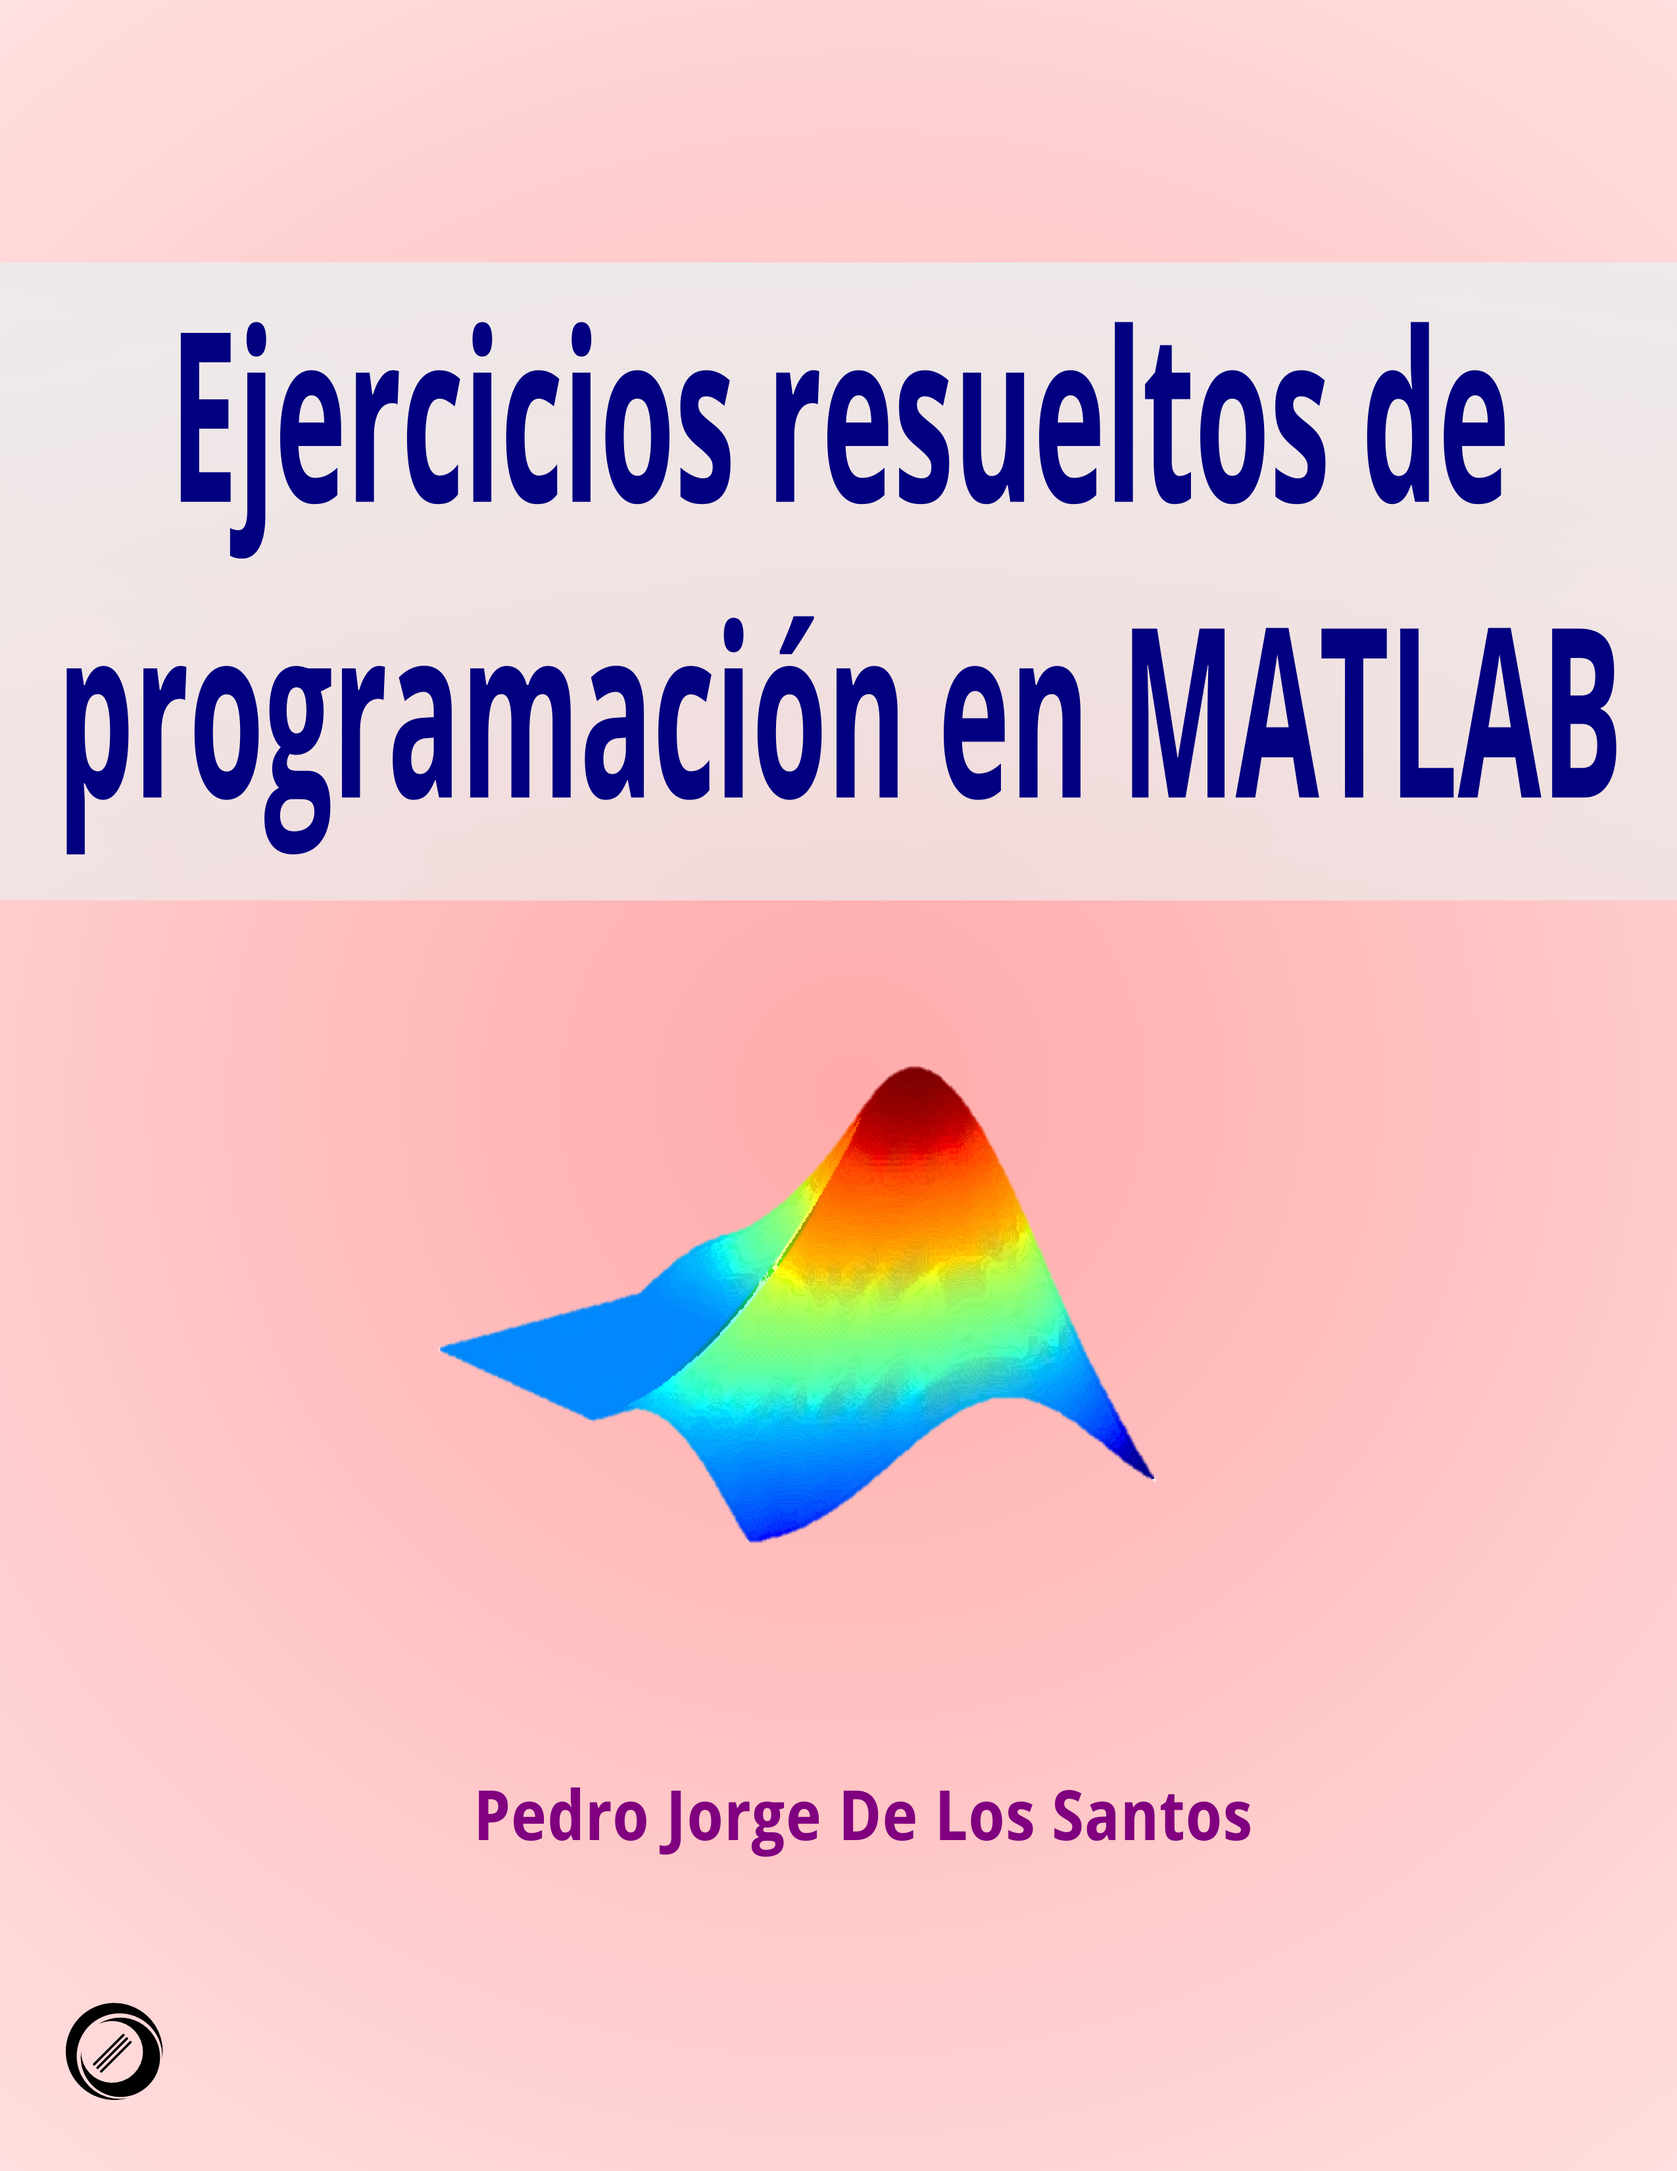
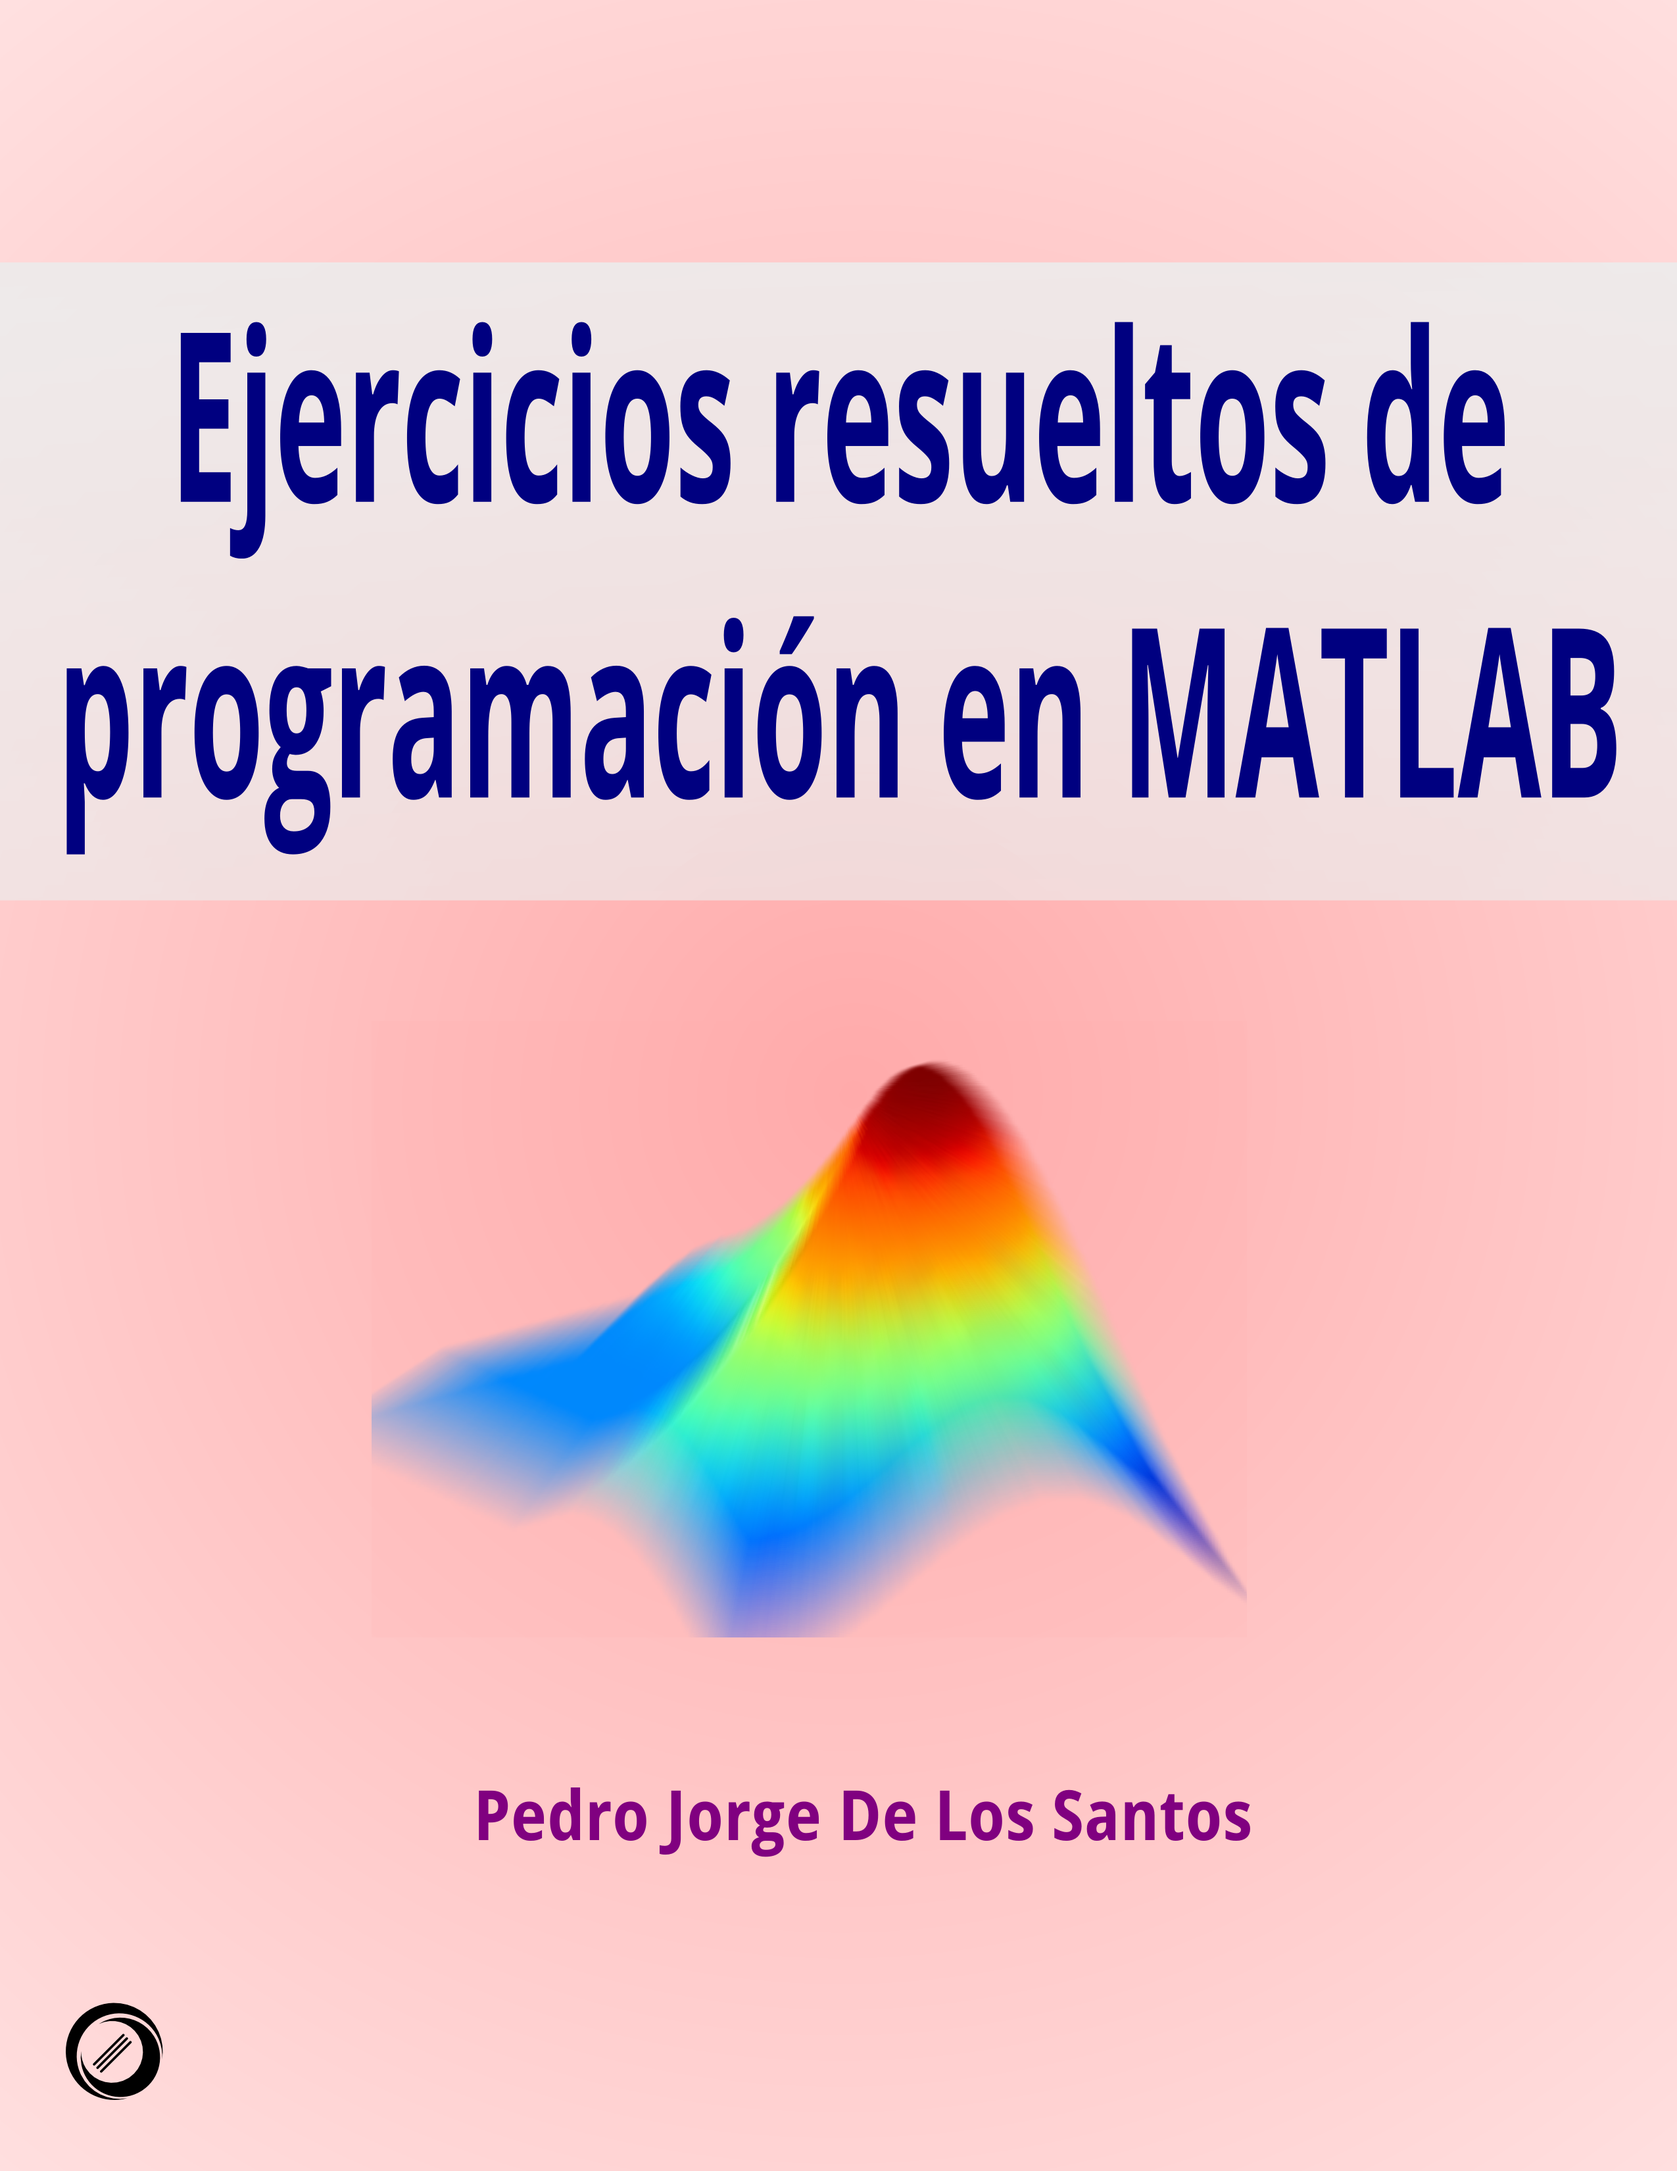
Modificando README

Changed region(s): [[0.2169, 0.4682, 0.7435, 0.7803]]

diff --git a/README.md b/README.md
@@ -1,6 +1,8 @@
 ## Ejercicios resueltos de programación en MATLAB
 
-<img src="src/portada.png" width="150" height="210">
+<a href="https://leanpub.com/erpm/">
+	<img src="https://s3.amazonaws.com/titlepages.leanpub.com/erpm/hero?1458941044" width="170px" height="220px">
+</a>
 
 ### Contenido
 
@@ -11,11 +13,6 @@
 * Parte 5. Matemáticas
 * Parte 6. Interfaces gráficas de usuario
 * Parte 7. Programación orientada a objetos
-
-### Descargar PDF
-
-[Versión actual (0.1) (En desarrollo)](https://goo.gl/jY97Ir)
-
 
 ### Contribuciones / Más información
 
